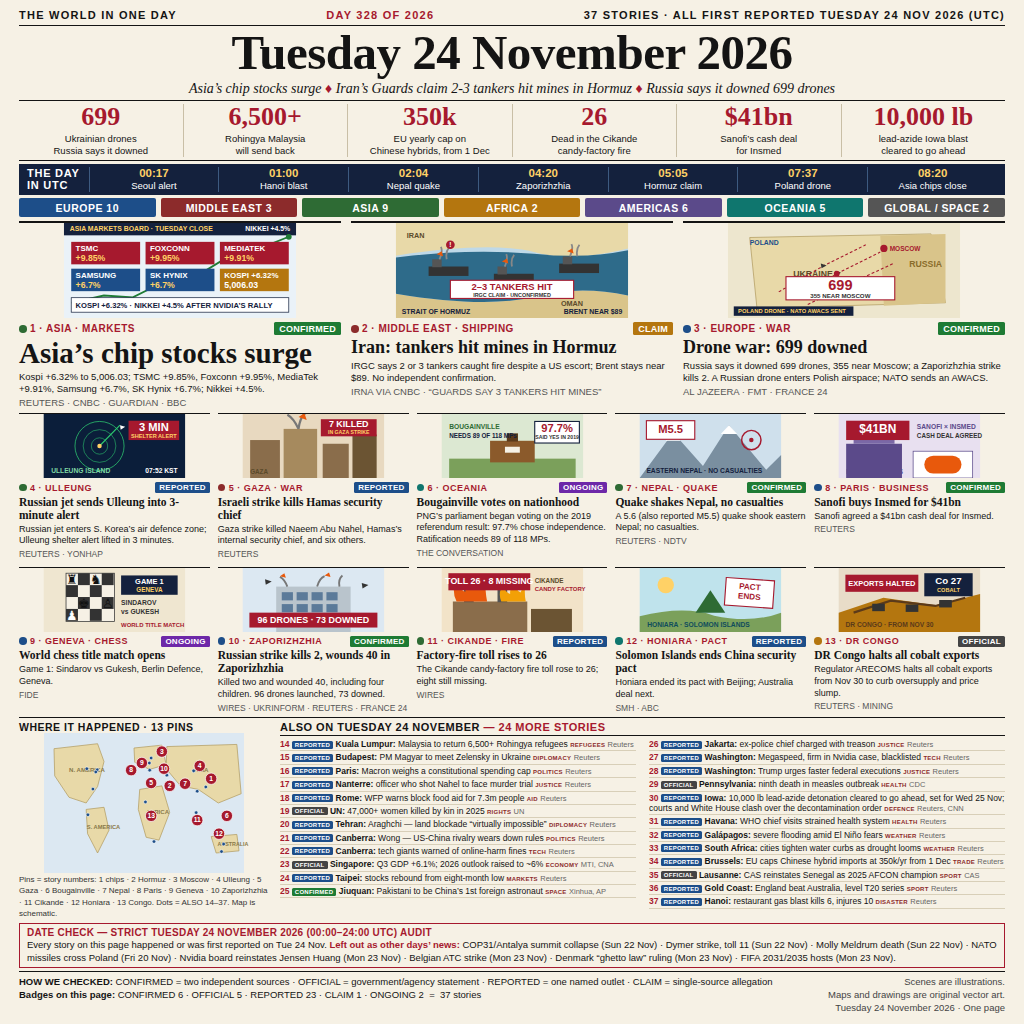
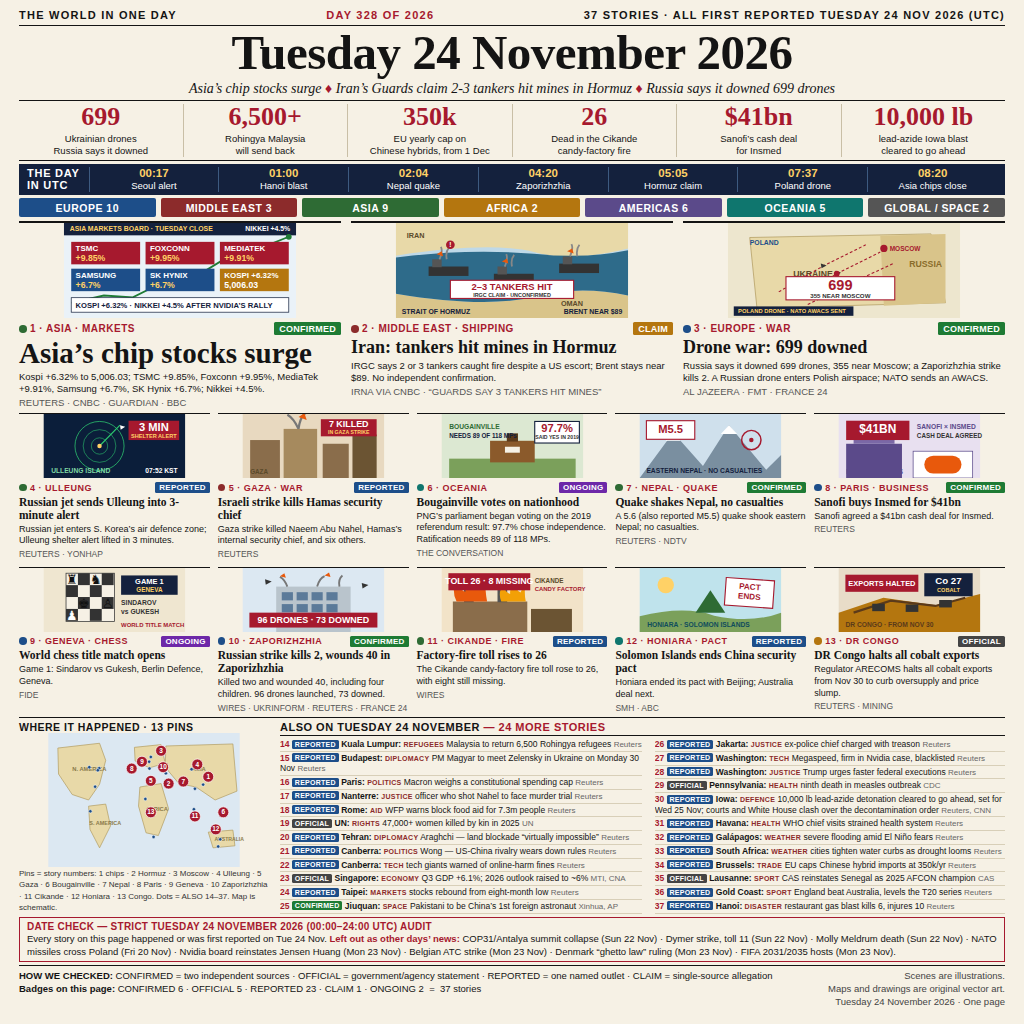
news-image-20261124 round 2 fixes: 11-item repair
- hero 11: toll rose to 26, with eight still missing (comma+with)
- #15: PM Magyar to meet Zelensky in Ukraine on Monday 30 Nov (wrap)
- #36: levels the T20 series
- ALSO: domain tags moved after placename (all 24 visible despite ellipsis);
  badges 12->14px, tags 12->14px, sources 15->16px
- #14: dropped '+' (6,500 Rohingya) so source survives at larger badge size;
  #34: dropped 'from 1 Dec' (kept in numbers strip) for same reason
- map svg 280->268px to buy vertical slack for the #15 wrap row
- verified by fact-check, NOT changed: Insmed already capital I;
  #25 already Jiuquan; #29 ninth death is correct per PA DOH;
  #27 Megaspeed is the real blacklisted firm; map key complete

Changed region(s): [[0.0, 0.7188, 1.0, 1.0], [0.4062, 0.6562, 0.5, 0.6875]]

diff --git a/build/front.html b/build/front.html
@@ -62,7 +62,7 @@ h1{font-size:98px;line-height:1.04;text-align:center;letter-spacing:-1px;padding
 .bottom{display:grid;grid-template-columns:500px 1fr;gap:22px;margin-top:8px;border-top:3px solid #141414;padding-top:6px}
 .maphead{font-family:Arial,Helvetica,sans-serif;font-weight:800;font-size:21px;letter-spacing:1px}
 .maphead span{font-weight:400;font-size:18px;color:#555}
-.mapbox svg{display:block;width:100%;height:280px}
+.mapbox svg{display:block;width:100%;height:268px}
 .mapkey{font-family:Arial,Helvetica,sans-serif;font-size:16px;line-height:1.45;color:#333;margin-top:2px}
 .alsohead{font-family:Arial,Helvetica,sans-serif;font-weight:800;font-size:22px;letter-spacing:1px;
   border-bottom:2px solid #141414;padding-bottom:5px}
@@ -71,12 +71,12 @@ h1{font-size:98px;line-height:1.04;text-align:center;letter-spacing:-1px;padding
 .also .it{font-family:Arial,Helvetica,sans-serif;font-size:17px;line-height:1.22;
   padding:2px 0;border-bottom:1px solid #D8CFB8;white-space:nowrap;overflow:hidden;text-overflow:ellipsis}
 .also .it.wrap{white-space:normal}
-.also .bdg{font-family:Arial,Helvetica,sans-serif;font-weight:800;font-size:12px;color:#fff;
+.also .bdg{font-family:Arial,Helvetica,sans-serif;font-weight:800;font-size:14px;color:#fff;
   padding:2px 6px;border-radius:3px;letter-spacing:.5px;vertical-align:1px}
-.also .tg{font-family:Arial,Helvetica,sans-serif;font-weight:800;font-size:12px;color:#8C2B2B;letter-spacing:.5px}
+.also .tg{font-family:Arial,Helvetica,sans-serif;font-weight:800;font-size:14px;color:#8C2B2B;letter-spacing:.5px}
 .also .it b{color:#A6192E}
 .also .it .pl{font-weight:800}
-.also .it .sr{color:#666;font-size:15px}
+.also .it .sr{color:#666;font-size:16px}
 /* date check + footer */
 .datecheck{border:3px solid #A6192E;margin-top:6px;padding:6px 14px;font-family:Arial,Helvetica,sans-serif}
 .datecheck .t{font-weight:800;font-size:20px;color:#A6192E;letter-spacing:0.5px}
@@ -339,7 +339,7 @@ h1{font-size:98px;line-height:1.04;text-align:center;letter-spacing:-1px;padding
 </svg>
 <div class="tagrow"><span class="kicker"><span class="dot" style="background:#2E6B34"></span>11 &middot; CIKANDE &middot; FIRE</span><span class="badge b-rep">REPORTED</span></div>
 <h3>Factory-fire toll rises to 26</h3>
-<p>The Cikande candy-factory fire toll rose to 26; eight still missing.</p>
+<p>The Cikande candy-factory fire toll rose to 26, with eight still missing.</p>
 <div class="src">WIRES</div>
 </div>
 <div class="card">
@@ -425,32 +425,32 @@ h1{font-size:98px;line-height:1.04;text-align:center;letter-spacing:-1px;padding
 <div class="alsohead">ALSO ON TUESDAY 24 NOVEMBER <span>&mdash; 24 MORE STORIES</span></div>
 <div class="also">
 <div>
-<div class="it"><b>14</b> <span class="bdg b-rep">REPORTED</span> <span class="pl">Kuala Lumpur:</span> Malaysia to return 6,500+ Rohingya refugees <span class="tg">REFUGEES</span> <span class="sr">Reuters</span></div>
-<div class="it"><b>15</b> <span class="bdg b-rep">REPORTED</span> <span class="pl">Budapest:</span> PM Magyar to meet Zelensky in Ukraine <span class="tg">DIPLOMACY</span> <span class="sr">Reuters</span></div>
-<div class="it"><b>16</b> <span class="bdg b-rep">REPORTED</span> <span class="pl">Paris:</span> Macron weighs a constitutional spending cap <span class="tg">POLITICS</span> <span class="sr">Reuters</span></div>
-<div class="it"><b>17</b> <span class="bdg b-rep">REPORTED</span> <span class="pl">Nanterre:</span> officer who shot Nahel to face murder trial <span class="tg">JUSTICE</span> <span class="sr">Reuters</span></div>
-<div class="it"><b>18</b> <span class="bdg b-rep">REPORTED</span> <span class="pl">Rome:</span> WFP warns block food aid for 7.3m people <span class="tg">AID</span> <span class="sr">Reuters</span></div>
-<div class="it"><b>19</b> <span class="bdg b-off">OFFICIAL</span> <span class="pl">UN:</span> 47,000+ women killed by kin in 2025 <span class="tg">RIGHTS</span> <span class="sr">UN</span></div>
-<div class="it"><b>20</b> <span class="bdg b-rep">REPORTED</span> <span class="pl">Tehran:</span> Araghchi &mdash; land blockade &ldquo;virtually impossible&rdquo; <span class="tg">DIPLOMACY</span> <span class="sr">Reuters</span></div>
-<div class="it"><b>21</b> <span class="bdg b-rep">REPORTED</span> <span class="pl">Canberra:</span> Wong &mdash; US-China rivalry wears down rules <span class="tg">POLITICS</span> <span class="sr">Reuters</span></div>
-<div class="it"><b>22</b> <span class="bdg b-rep">REPORTED</span> <span class="pl">Canberra:</span> tech giants warned of online-harm fines <span class="tg">TECH</span> <span class="sr">Reuters</span></div>
-<div class="it"><b>23</b> <span class="bdg b-off">OFFICIAL</span> <span class="pl">Singapore:</span> Q3 GDP +6.1%; 2026 outlook raised to ~6% <span class="tg">ECONOMY</span> <span class="sr">MTI, CNA</span></div>
-<div class="it"><b>24</b> <span class="bdg b-rep">REPORTED</span> <span class="pl">Taipei:</span> stocks rebound from eight-month low <span class="tg">MARKETS</span> <span class="sr">Reuters</span></div>
-<div class="it"><b>25</b> <span class="bdg b-conf">CONFIRMED</span> <span class="pl">Jiuquan:</span> Pakistani to be China&rsquo;s 1st foreign astronaut <span class="tg">SPACE</span> <span class="sr">Xinhua, AP</span></div>
+<div class="it"><b>14</b> <span class="bdg b-rep">REPORTED</span> <span class="pl">Kuala Lumpur:</span> <span class="tg">REFUGEES</span> Malaysia to return 6,500 Rohingya refugees <span class="sr">Reuters</span></div>
+<div class="it wrap"><b>15</b> <span class="bdg b-rep">REPORTED</span> <span class="pl">Budapest:</span> <span class="tg">DIPLOMACY</span> PM Magyar to meet Zelensky in Ukraine on Monday 30 Nov <span class="sr">Reuters</span></div>
+<div class="it"><b>16</b> <span class="bdg b-rep">REPORTED</span> <span class="pl">Paris:</span> <span class="tg">POLITICS</span> Macron weighs a constitutional spending cap <span class="sr">Reuters</span></div>
+<div class="it"><b>17</b> <span class="bdg b-rep">REPORTED</span> <span class="pl">Nanterre:</span> <span class="tg">JUSTICE</span> officer who shot Nahel to face murder trial <span class="sr">Reuters</span></div>
+<div class="it"><b>18</b> <span class="bdg b-rep">REPORTED</span> <span class="pl">Rome:</span> <span class="tg">AID</span> WFP warns block food aid for 7.3m people <span class="sr">Reuters</span></div>
+<div class="it"><b>19</b> <span class="bdg b-off">OFFICIAL</span> <span class="pl">UN:</span> <span class="tg">RIGHTS</span> 47,000+ women killed by kin in 2025 <span class="sr">UN</span></div>
+<div class="it"><b>20</b> <span class="bdg b-rep">REPORTED</span> <span class="pl">Tehran:</span> <span class="tg">DIPLOMACY</span> Araghchi &mdash; land blockade &ldquo;virtually impossible&rdquo; <span class="sr">Reuters</span></div>
+<div class="it"><b>21</b> <span class="bdg b-rep">REPORTED</span> <span class="pl">Canberra:</span> <span class="tg">POLITICS</span> Wong &mdash; US-China rivalry wears down rules <span class="sr">Reuters</span></div>
+<div class="it"><b>22</b> <span class="bdg b-rep">REPORTED</span> <span class="pl">Canberra:</span> <span class="tg">TECH</span> tech giants warned of online-harm fines <span class="sr">Reuters</span></div>
+<div class="it"><b>23</b> <span class="bdg b-off">OFFICIAL</span> <span class="pl">Singapore:</span> <span class="tg">ECONOMY</span> Q3 GDP +6.1%; 2026 outlook raised to ~6% <span class="sr">MTI, CNA</span></div>
+<div class="it"><b>24</b> <span class="bdg b-rep">REPORTED</span> <span class="pl">Taipei:</span> <span class="tg">MARKETS</span> stocks rebound from eight-month low <span class="sr">Reuters</span></div>
+<div class="it"><b>25</b> <span class="bdg b-conf">CONFIRMED</span> <span class="pl">Jiuquan:</span> <span class="tg">SPACE</span> Pakistani to be China&rsquo;s 1st foreign astronaut <span class="sr">Xinhua, AP</span></div>
 </div>
 <div>
-<div class="it"><b>26</b> <span class="bdg b-rep">REPORTED</span> <span class="pl">Jakarta:</span> ex-police chief charged with treason <span class="tg">JUSTICE</span> <span class="sr">Reuters</span></div>
-<div class="it"><b>27</b> <span class="bdg b-rep">REPORTED</span> <span class="pl">Washington:</span> Megaspeed, firm in Nvidia case, blacklisted <span class="tg">TECH</span> <span class="sr">Reuters</span></div>
-<div class="it"><b>28</b> <span class="bdg b-rep">REPORTED</span> <span class="pl">Washington:</span> Trump urges faster federal executions <span class="tg">JUSTICE</span> <span class="sr">Reuters</span></div>
-<div class="it"><b>29</b> <span class="bdg b-off">OFFICIAL</span> <span class="pl">Pennsylvania:</span> ninth death in measles outbreak <span class="tg">HEALTH</span> <span class="sr">CDC</span></div>
-<div class="it wrap"><b>30</b> <span class="bdg b-rep">REPORTED</span> <span class="pl">Iowa:</span> 10,000 lb lead-azide detonation cleared to go ahead, set for Wed 25 Nov; courts and White House clash over the decontamination order <span class="tg">DEFENCE</span> <span class="sr">Reuters, CNN</span></div>
-<div class="it"><b>31</b> <span class="bdg b-rep">REPORTED</span> <span class="pl">Havana:</span> WHO chief visits strained health system <span class="tg">HEALTH</span> <span class="sr">Reuters</span></div>
-<div class="it"><b>32</b> <span class="bdg b-rep">REPORTED</span> <span class="pl">Gal&aacute;pagos:</span> severe flooding amid El Ni&ntilde;o fears <span class="tg">WEATHER</span> <span class="sr">Reuters</span></div>
-<div class="it"><b>33</b> <span class="bdg b-rep">REPORTED</span> <span class="pl">South Africa:</span> cities tighten water curbs as drought looms <span class="tg">WEATHER</span> <span class="sr">Reuters</span></div>
-<div class="it"><b>34</b> <span class="bdg b-rep">REPORTED</span> <span class="pl">Brussels:</span> EU caps Chinese hybrid imports at 350k/yr from 1 Dec <span class="tg">TRADE</span> <span class="sr">Reuters</span></div>
-<div class="it"><b>35</b> <span class="bdg b-off">OFFICIAL</span> <span class="pl">Lausanne:</span> CAS reinstates Senegal as 2025 AFCON champion <span class="tg">SPORT</span> <span class="sr">CAS</span></div>
-<div class="it"><b>36</b> <span class="bdg b-rep">REPORTED</span> <span class="pl">Gold Coast:</span> England beat Australia, level T20 series <span class="tg">SPORT</span> <span class="sr">Reuters</span></div>
-<div class="it"><b>37</b> <span class="bdg b-rep">REPORTED</span> <span class="pl">Hanoi:</span> restaurant gas blast kills 6, injures 10 <span class="tg">DISASTER</span> <span class="sr">Reuters</span></div>
+<div class="it"><b>26</b> <span class="bdg b-rep">REPORTED</span> <span class="pl">Jakarta:</span> <span class="tg">JUSTICE</span> ex-police chief charged with treason <span class="sr">Reuters</span></div>
+<div class="it"><b>27</b> <span class="bdg b-rep">REPORTED</span> <span class="pl">Washington:</span> <span class="tg">TECH</span> Megaspeed, firm in Nvidia case, blacklisted <span class="sr">Reuters</span></div>
+<div class="it"><b>28</b> <span class="bdg b-rep">REPORTED</span> <span class="pl">Washington:</span> <span class="tg">JUSTICE</span> Trump urges faster federal executions <span class="sr">Reuters</span></div>
+<div class="it"><b>29</b> <span class="bdg b-off">OFFICIAL</span> <span class="pl">Pennsylvania:</span> <span class="tg">HEALTH</span> ninth death in measles outbreak <span class="sr">CDC</span></div>
+<div class="it wrap"><b>30</b> <span class="bdg b-rep">REPORTED</span> <span class="pl">Iowa:</span> <span class="tg">DEFENCE</span> 10,000 lb lead-azide detonation cleared to go ahead, set for Wed 25 Nov; courts and White House clash over the decontamination order <span class="sr">Reuters, CNN</span></div>
+<div class="it"><b>31</b> <span class="bdg b-rep">REPORTED</span> <span class="pl">Havana:</span> <span class="tg">HEALTH</span> WHO chief visits strained health system <span class="sr">Reuters</span></div>
+<div class="it"><b>32</b> <span class="bdg b-rep">REPORTED</span> <span class="pl">Gal&aacute;pagos:</span> <span class="tg">WEATHER</span> severe flooding amid El Ni&ntilde;o fears <span class="sr">Reuters</span></div>
+<div class="it"><b>33</b> <span class="bdg b-rep">REPORTED</span> <span class="pl">South Africa:</span> <span class="tg">WEATHER</span> cities tighten water curbs as drought looms <span class="sr">Reuters</span></div>
+<div class="it"><b>34</b> <span class="bdg b-rep">REPORTED</span> <span class="pl">Brussels:</span> <span class="tg">TRADE</span> EU caps Chinese hybrid imports at 350k/yr <span class="sr">Reuters</span></div>
+<div class="it"><b>35</b> <span class="bdg b-off">OFFICIAL</span> <span class="pl">Lausanne:</span> <span class="tg">SPORT</span> CAS reinstates Senegal as 2025 AFCON champion <span class="sr">CAS</span></div>
+<div class="it"><b>36</b> <span class="bdg b-rep">REPORTED</span> <span class="pl">Gold Coast:</span> <span class="tg">SPORT</span> England beat Australia, levels the T20 series <span class="sr">Reuters</span></div>
+<div class="it"><b>37</b> <span class="bdg b-rep">REPORTED</span> <span class="pl">Hanoi:</span> <span class="tg">DISASTER</span> restaurant gas blast kills 6, injures 10 <span class="sr">Reuters</span></div>
 </div>
 </div>
 </div>
